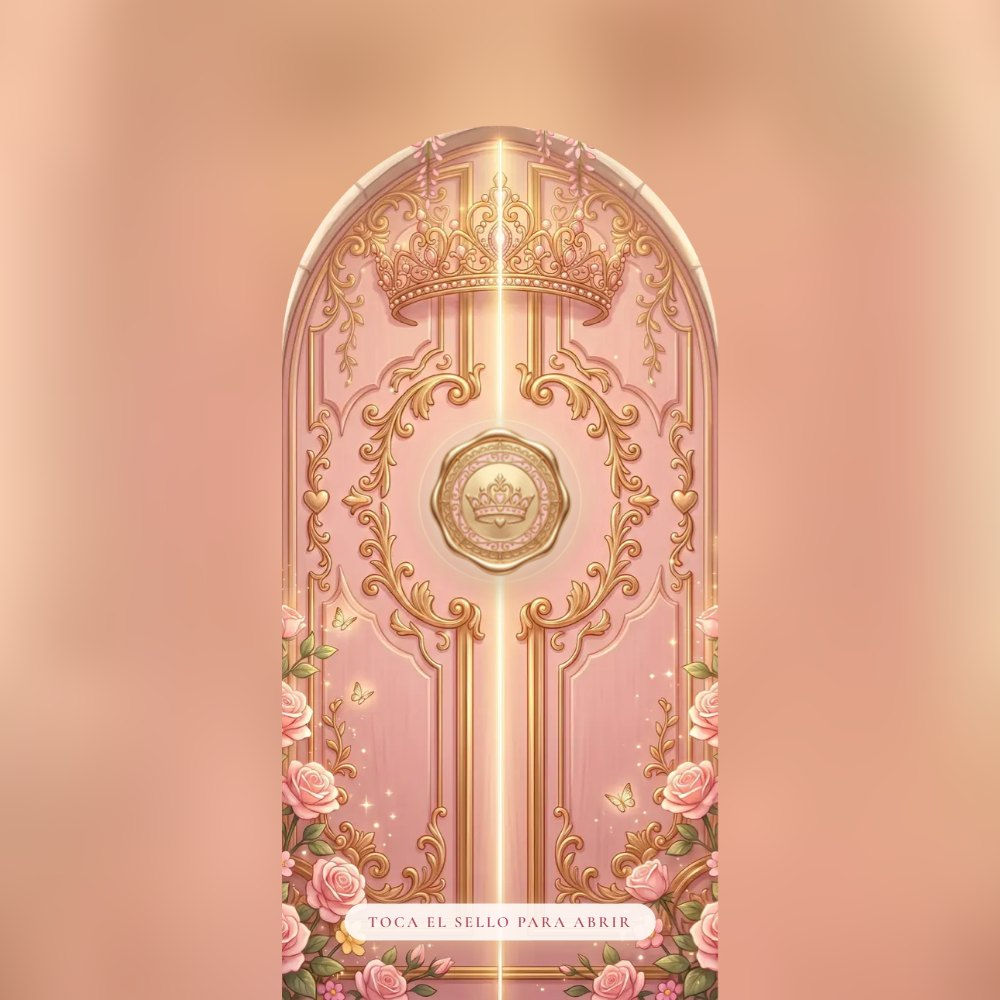
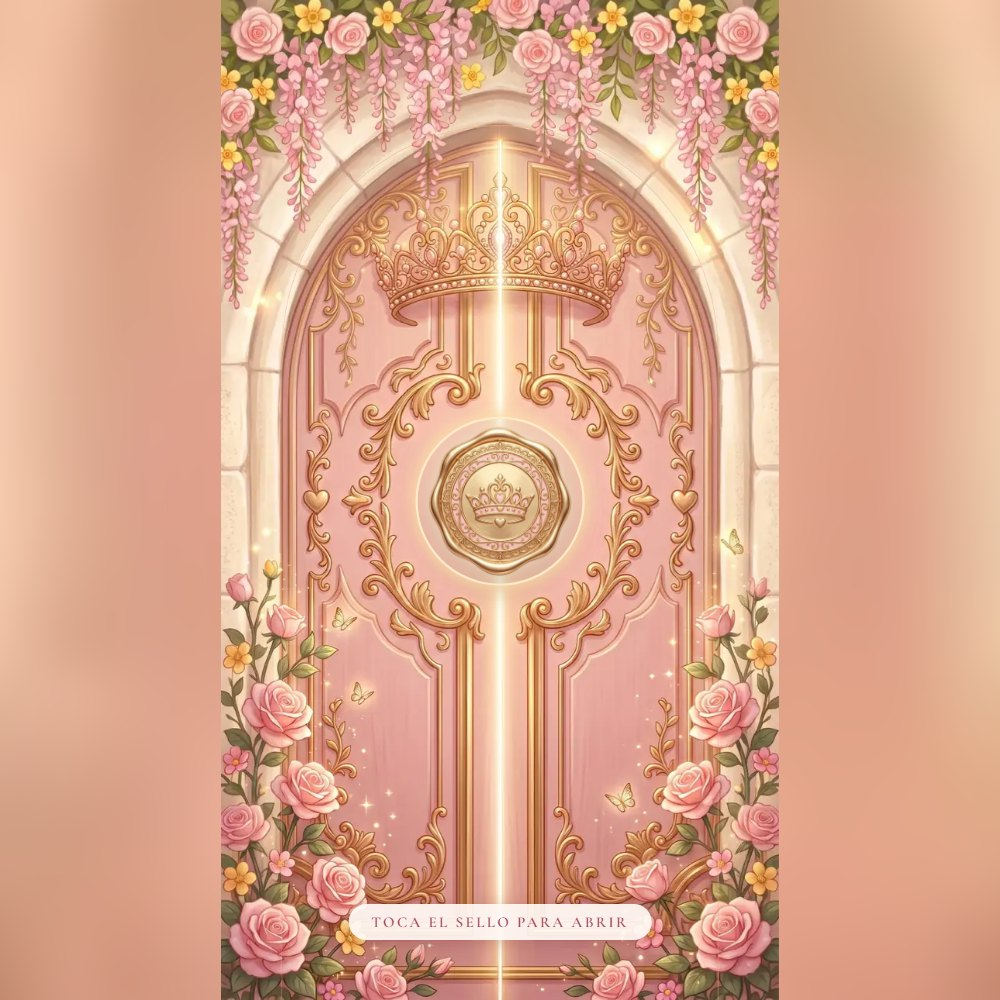
Maite final: vista previa de WhatsApp completa (la primera se tomó a mitad de la animación)

Changed region(s): [[0.217, 0.0, 0.806, 1.0], [0.341, 0.899, 0.651, 0.961]]

diff --git a/maite-sin-admision/index.html b/maite-sin-admision/index.html
@@ -19,15 +19,15 @@
 <meta property="og:title" content="Mis XV Años · Maite Isabel">
 <meta property="og:description" content="Estás invitado a mis XV años. Toca el sello para abrir las puertas de mi castillo ✨">
 <meta property="og:url" content="https://eleganciadeamor.com/maite-sin-admision/">
-<meta property="og:image" content="https://eleganciadeamor.com/maite-sin-admision/recursos/vista-previa.jpg?v=f1795554728">
-<meta property="og:image:secure_url" content="https://eleganciadeamor.com/maite-sin-admision/recursos/vista-previa.jpg?v=f1795554728">
+<meta property="og:image" content="https://eleganciadeamor.com/maite-sin-admision/recursos/vista-previa.jpg?v=f1795555015">
+<meta property="og:image:secure_url" content="https://eleganciadeamor.com/maite-sin-admision/recursos/vista-previa.jpg?v=f1795555015">
 <meta property="og:image:type" content="image/jpeg">
 <meta property="og:image:width" content="1000">
 <meta property="og:image:height" content="1000">
 <meta property="og:image:alt" content="Puertas rosadas de un castillo con filigrana dorada, una tiara y un sello de corona, rodeadas de glicinias y rosas">
 <meta name="twitter:card" content="summary">
-<meta name="twitter:image" content="https://eleganciadeamor.com/maite-sin-admision/recursos/vista-previa.jpg?v=f1795554728">
-<link rel="icon" href="recursos/vista-previa.jpg?v=f1795554728">
+<meta name="twitter:image" content="https://eleganciadeamor.com/maite-sin-admision/recursos/vista-previa.jpg?v=f1795555015">
+<link rel="icon" href="recursos/vista-previa.jpg?v=f1795555015">
 <!-- Lo primero que baja: las puertas (si cambias estas imágenes en el CONFIG, cambia también estas 3 líneas) -->
 <link rel="preload" href="recursos/apertura-marco.webp" as="image" fetchpriority="high">
 <link rel="preload" href="recursos/apertura-puerta-izq.webp" as="image" fetchpriority="high">

diff --git a/maite/index.html b/maite/index.html
@@ -19,15 +19,15 @@
 <meta property="og:title" content="Mis XV Años · Maite Isabel">
 <meta property="og:description" content="Estás invitado a mis XV años. Toca el sello para abrir las puertas de mi castillo ✨">
 <meta property="og:url" content="https://eleganciadeamor.com/maite/">
-<meta property="og:image" content="https://eleganciadeamor.com/maite/recursos/vista-previa.jpg?v=f1795554727">
-<meta property="og:image:secure_url" content="https://eleganciadeamor.com/maite/recursos/vista-previa.jpg?v=f1795554727">
+<meta property="og:image" content="https://eleganciadeamor.com/maite/recursos/vista-previa.jpg?v=f1795555012">
+<meta property="og:image:secure_url" content="https://eleganciadeamor.com/maite/recursos/vista-previa.jpg?v=f1795555012">
 <meta property="og:image:type" content="image/jpeg">
 <meta property="og:image:width" content="1000">
 <meta property="og:image:height" content="1000">
 <meta property="og:image:alt" content="Puertas rosadas de un castillo con filigrana dorada, una tiara y un sello de corona, rodeadas de glicinias y rosas">
 <meta name="twitter:card" content="summary">
-<meta name="twitter:image" content="https://eleganciadeamor.com/maite/recursos/vista-previa.jpg?v=f1795554727">
-<link rel="icon" href="recursos/vista-previa.jpg?v=f1795554727">
+<meta name="twitter:image" content="https://eleganciadeamor.com/maite/recursos/vista-previa.jpg?v=f1795555012">
+<link rel="icon" href="recursos/vista-previa.jpg?v=f1795555012">
 <!-- Lo primero que baja: las puertas (si cambias estas imágenes en el CONFIG, cambia también estas 3 líneas) -->
 <link rel="preload" href="recursos/apertura-marco.webp" as="image" fetchpriority="high">
 <link rel="preload" href="recursos/apertura-puerta-izq.webp" as="image" fetchpriority="high">

diff --git a/borradores/xv-maite-v5-49907d/index.html b/borradores/xv-maite-v5-49907d/index.html
@@ -9,14 +9,14 @@
 <meta property="og:title" content="Mis XV Años · Maite Isabel">
 <meta property="og:description" content="Estás invitado a mis XV años. Toca el sello para abrir las puertas de mi castillo ✨">
 <meta property="og:url" content="https://eleganciadeamor.com/maite-sin-admision/">
-<meta property="og:image" content="https://eleganciadeamor.com/maite-sin-admision/recursos/vista-previa.jpg?v=f1795554728">
-<meta property="og:image:secure_url" content="https://eleganciadeamor.com/maite-sin-admision/recursos/vista-previa.jpg?v=f1795554728">
+<meta property="og:image" content="https://eleganciadeamor.com/maite-sin-admision/recursos/vista-previa.jpg?v=f1795555015">
+<meta property="og:image:secure_url" content="https://eleganciadeamor.com/maite-sin-admision/recursos/vista-previa.jpg?v=f1795555015">
 <meta property="og:image:type" content="image/jpeg">
 <meta property="og:image:width" content="1000">
 <meta property="og:image:height" content="1000">
 <meta property="og:image:alt" content="Puertas rosadas de un castillo con filigrana dorada, una tiara y un sello de corona, rodeadas de glicinias y rosas">
 <meta name="twitter:card" content="summary">
-<meta name="twitter:image" content="https://eleganciadeamor.com/maite-sin-admision/recursos/vista-previa.jpg?v=f1795554728">
+<meta name="twitter:image" content="https://eleganciadeamor.com/maite-sin-admision/recursos/vista-previa.jpg?v=f1795555015">
 <link rel="canonical" href="https://eleganciadeamor.com/maite-sin-admision/">
 <meta http-equiv="refresh" content="0; url=https://eleganciadeamor.com/maite-sin-admision/">
 <script>location.replace("https://eleganciadeamor.com/maite-sin-admision/" + location.hash)</script>

diff --git a/borradores/xv-maite-v5-d11e47/index.html b/borradores/xv-maite-v5-d11e47/index.html
@@ -9,14 +9,14 @@
 <meta property="og:title" content="Mis XV Años · Maite Isabel">
 <meta property="og:description" content="Estás invitado a mis XV años. Toca el sello para abrir las puertas de mi castillo ✨">
 <meta property="og:url" content="https://eleganciadeamor.com/maite/">
-<meta property="og:image" content="https://eleganciadeamor.com/maite/recursos/vista-previa.jpg?v=f1795554727">
-<meta property="og:image:secure_url" content="https://eleganciadeamor.com/maite/recursos/vista-previa.jpg?v=f1795554727">
+<meta property="og:image" content="https://eleganciadeamor.com/maite/recursos/vista-previa.jpg?v=f1795555012">
+<meta property="og:image:secure_url" content="https://eleganciadeamor.com/maite/recursos/vista-previa.jpg?v=f1795555012">
 <meta property="og:image:type" content="image/jpeg">
 <meta property="og:image:width" content="1000">
 <meta property="og:image:height" content="1000">
 <meta property="og:image:alt" content="Puertas rosadas de un castillo con filigrana dorada, una tiara y un sello de corona, rodeadas de glicinias y rosas">
 <meta name="twitter:card" content="summary">
-<meta name="twitter:image" content="https://eleganciadeamor.com/maite/recursos/vista-previa.jpg?v=f1795554727">
+<meta name="twitter:image" content="https://eleganciadeamor.com/maite/recursos/vista-previa.jpg?v=f1795555012">
 <link rel="canonical" href="https://eleganciadeamor.com/maite/">
 <meta http-equiv="refresh" content="0; url=https://eleganciadeamor.com/maite/">
 <script>location.replace("https://eleganciadeamor.com/maite/" + location.hash)</script>
